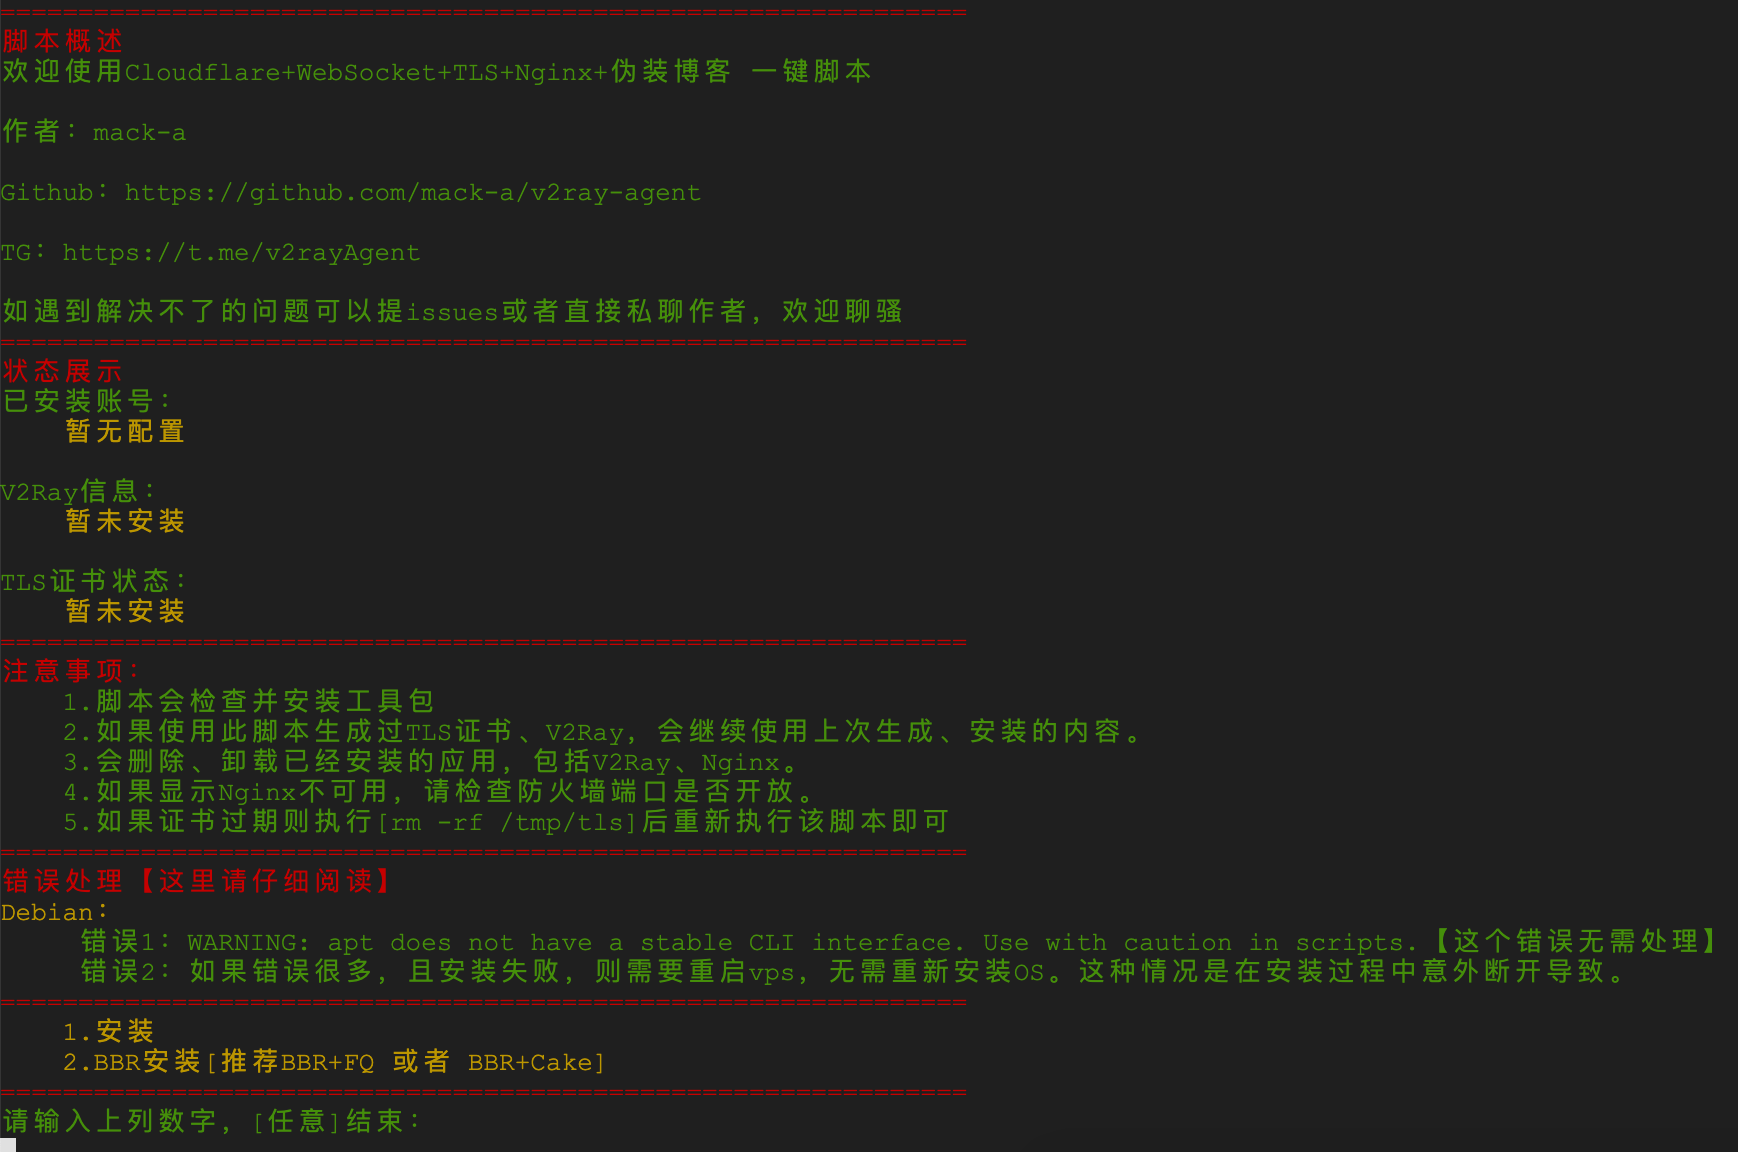
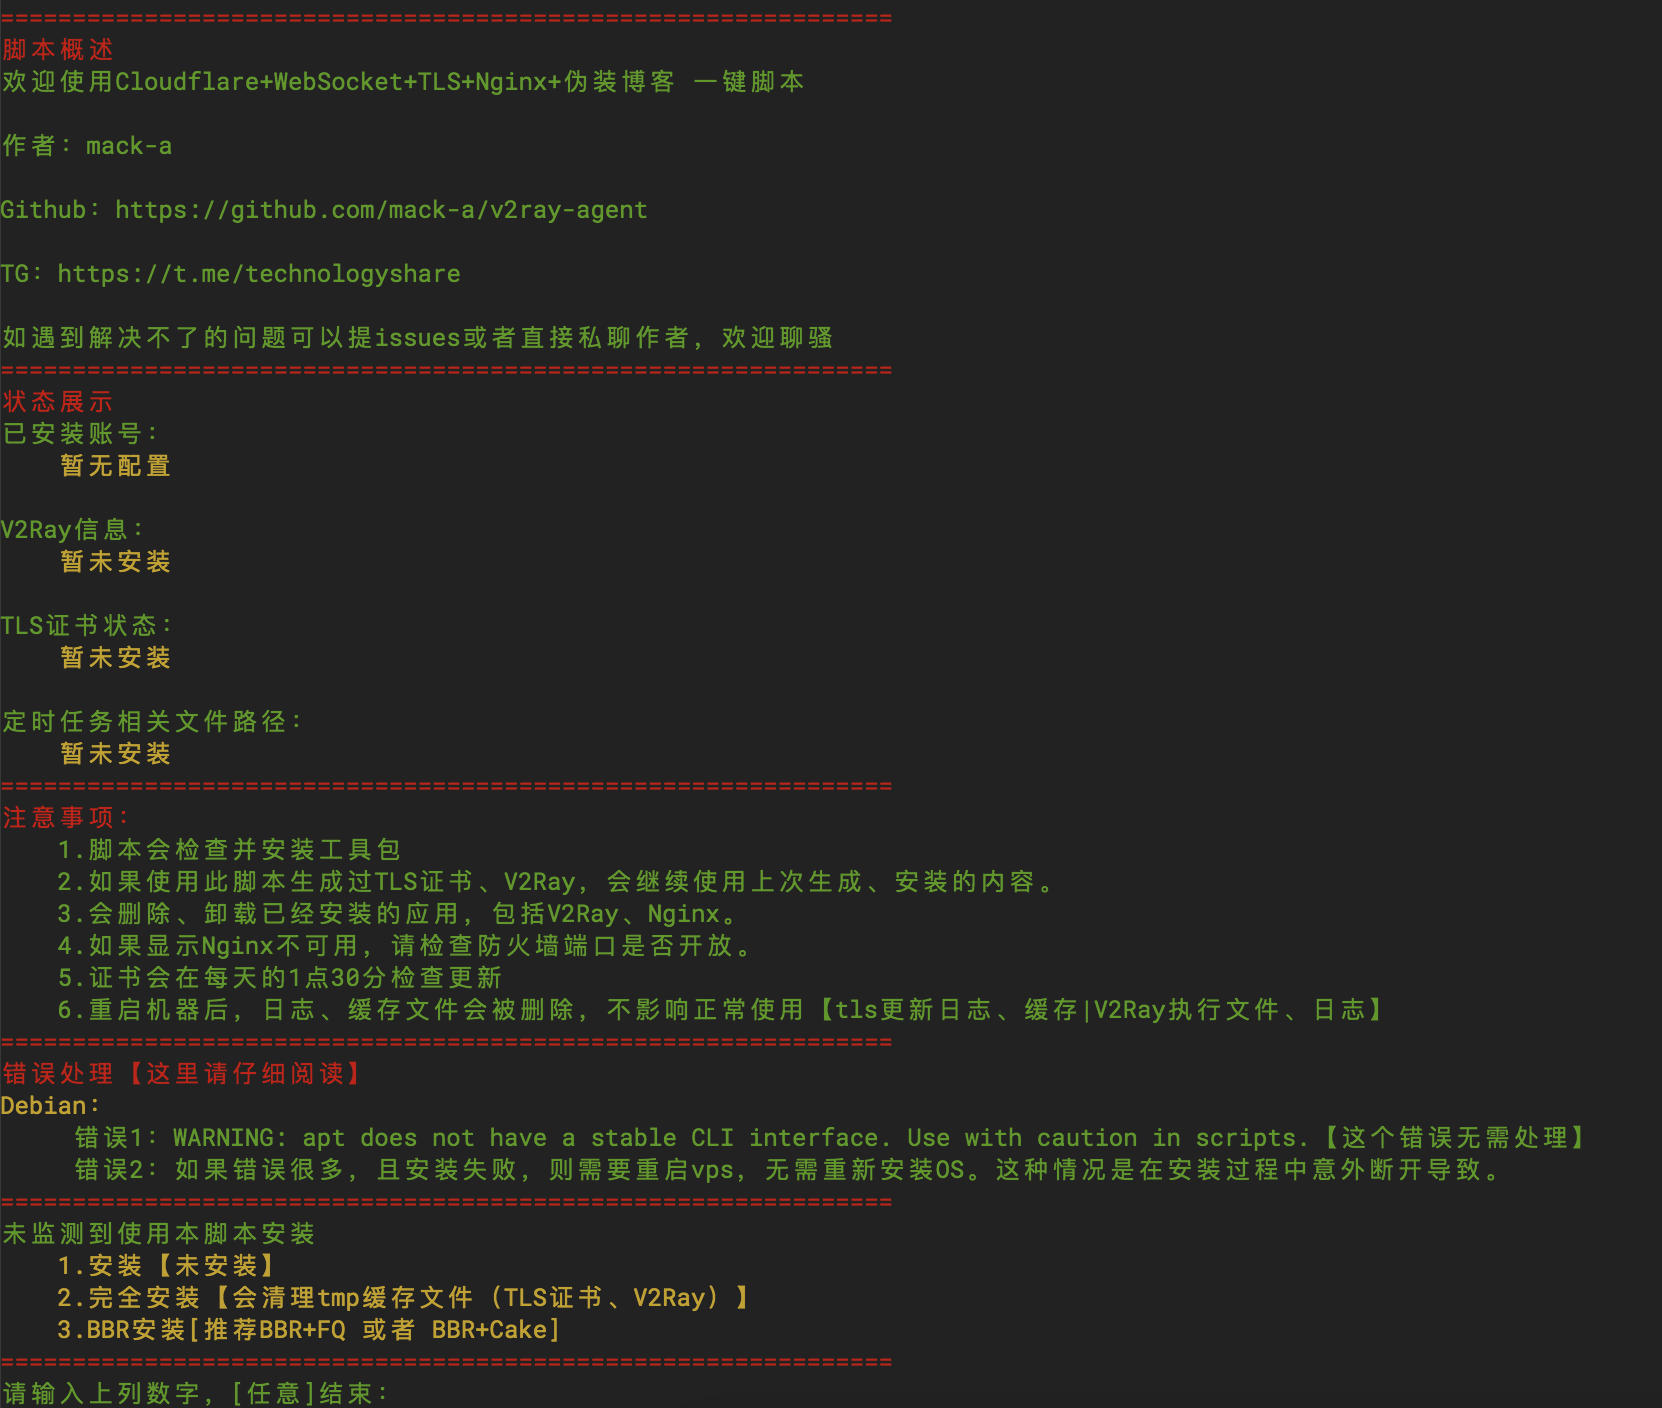
feat(一键脚本): 完善tls证书更新

Changed region(s): [[0.0, 0.0, 0.9819, 1.0], [0.6137, 0.6875, 0.7671, 0.7188], [0.7978, 0.6875, 0.8285, 0.7188]]

diff --git a/README.md b/README.md
@@ -47,14 +47,15 @@ bash <(curl -L -s https://raw.githubusercontent.com/mack-a/v2ray-agent/master/in
 - 5.自动添加伪装博客。
 - 6.添加了默认的CDN，自选ip智能解析。
 - 7.默认安装最新的V2Ray版本。
-- 8.增加定时任务 自动续期tls【todo】
+- 8.增加定时任务 自动续期tls
 
 # 示例图
 - 未安装
 <img src="https://raw.githubusercontent.com/mack-a/v2ray-agent/master/fodder/install/一键脚本未安装.png" width=400>
 
 - 已安装
-<img src="https://raw.githubusercontent.com/mack-a/v2ray-agent/master/fodder/install/一键脚本已安装.png" width=400>
+<img src="https://raw.githubusercontent.com/mack-a/v2ray-agent/master/fodder/install/一键脚本已安装01.png" width=400>
+<img src="https://raw.githubusercontent.com/mack-a/v2ray-agent/master/fodder/install/一键脚本已安装02.png" width=400>
 
 ## 全自动生成TLS证书一键脚本[只生成TLS证书]
 - 针对只需要生成TLS证书的用户
